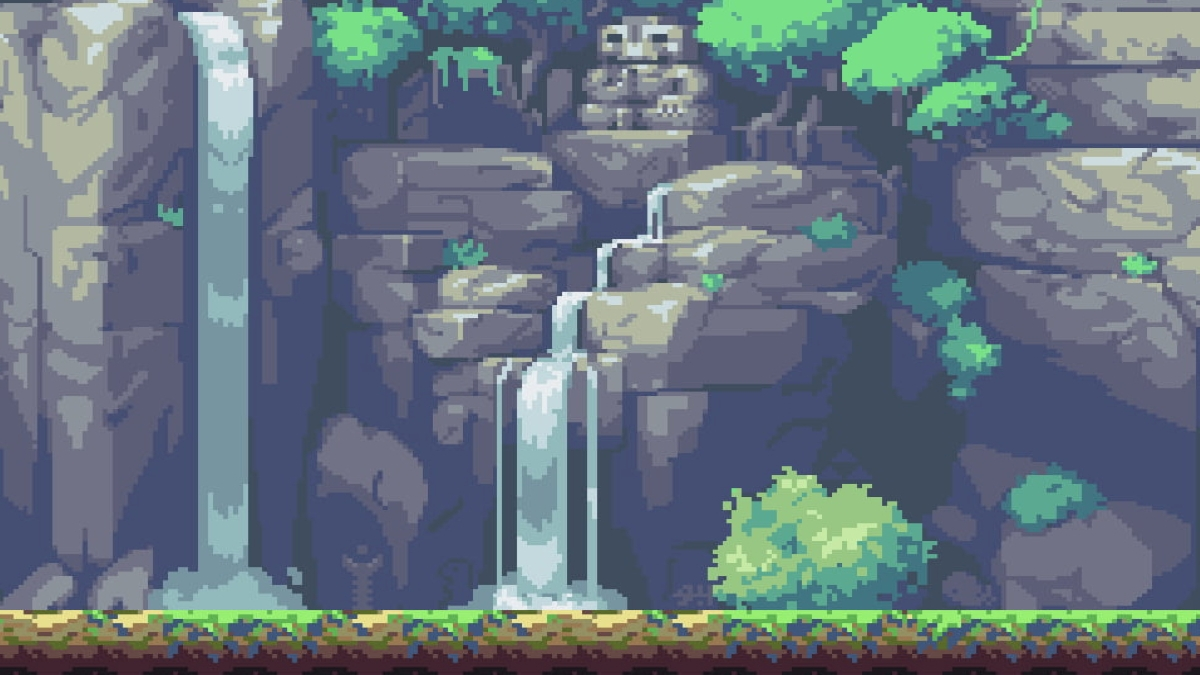
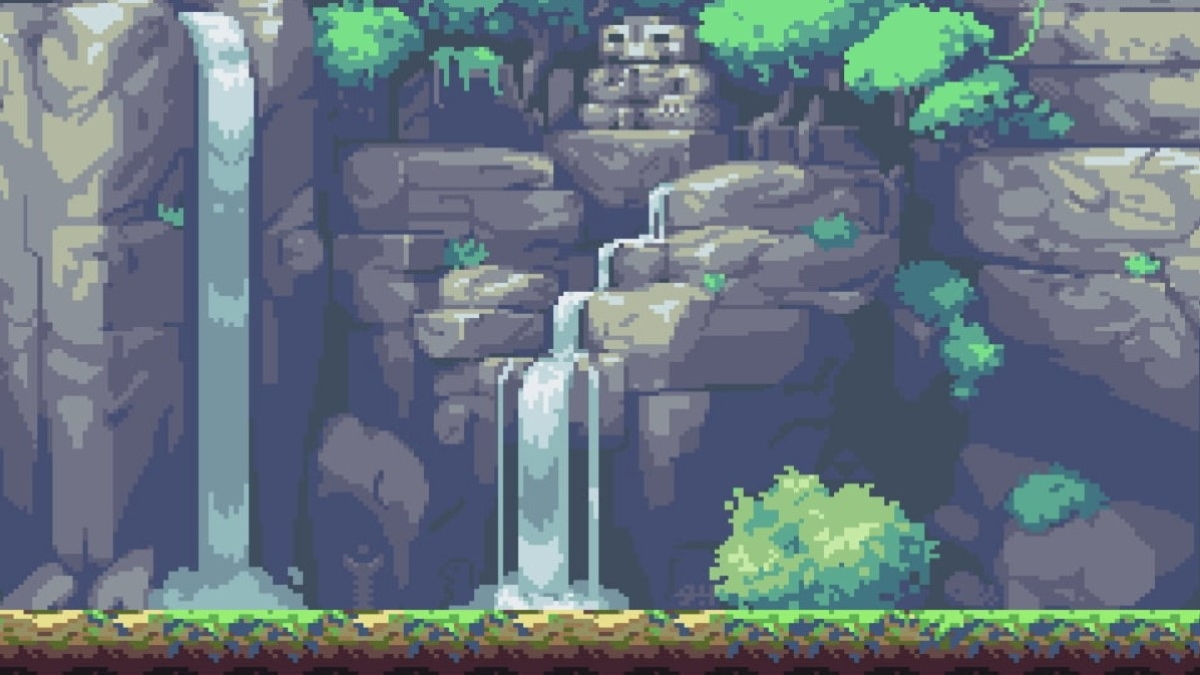
added health bar and type interaction logic

diff --git a/controller.py b/controller.py
@@ -1,7 +1,7 @@
 import pygame, sys, math, random, time
 from model import Model, obstacle1, obstacle2, character, waterObs, fireObs, grassObs, snorObs
-SCREEN_SIZE = SCREEN_WIDTH, SCREEN_HEIGHT = 1300, 675
-FLOOR = 610
+SCREEN_SIZE = SCREEN_WIDTH, SCREEN_HEIGHT = 1300, 600
+FLOOR = 490
 CHARFLOOR = 424
 #helper variables
 bg = 0
@@ -21,18 +21,20 @@ class Controller:
     def startGame(self):
         #game quit
         #can only happen after view has been initalized I guess
-        global bg, tiles
-        bg = pygame.image.load("assets/background6.jpg").convert()
+        global bg, tiles, scroll
+        bg = pygame.image.load("assets/background7.png").convert()
         tiles = math.ceil(SCREEN_WIDTH / (bg.get_width())) + 1
         
-        player = character(500, 528, 86, 100)
+        player = character(500, 410, 86, 100)
         
         while True:
+            
             for event in self.view.getEvents():
                 if event.type == pygame.QUIT:
                     self.view.endGame()
                     sys.exit()
                     
+                
                 #generates new obstacle
                 if event.type == self.trigger:
                     #chooses random obstacle to create
@@ -46,7 +48,18 @@ class Controller:
                     elif(rand == 4):
                         self.obstacles.append(grassObs(1350, FLOOR-251, 94, 300))
 
-            
+            if player.health <= 0:
+                player.jump = True
+                self.movePlayer(player)
+                pData = player.getImgInfo()
+                for i in range(-1, tiles):
+                    w = bg.get_width()
+                    self.view.blitImg(bg, (i * w + scroll % w), 0)
+                self.view.blitImg(pData[0], pData[1], pData[2])
+                self.view.update()
+                self.clock.tick(60)
+                continue
+                
             self.moveObstacles()
             self.updateBackground()
             
@@ -64,16 +77,32 @@ class Controller:
             #print(player.y)
             playerHitbox = pygame.Rect(player.getHitbox())
             #blits all obstacles
+            
             for obs in self.obstacles:
                 obsData = obs.getImgInfo()
                 self.view.blitImg(obsData[0], obsData[1], obsData[2])
                 self.view.drawRect((255,0,0), obs.getHitbox())
                 if pygame.Rect.colliderect(playerHitbox, pygame.Rect(obs.getHitbox())):
-                    pass 
+                    if player.curChar == 0 and (type(obs) is fireObs):
+                        player.health -= 0.5
+                    elif player.curChar == 0 and (type(obs) is waterObs):
+                        player.health -= 1
+                    elif player.curChar == 1 and (type(obs) is waterObs):
+                        player.health -= 0.5
+                    elif player.curChar == 1 and (type(obs) is grassObs):
+                        player.health -= 1
+                    elif player.curChar == 2 and (type(obs) is grassObs):
+                        player.health -= 0.5
+                    elif player.curChar == 2 and (type(obs) is fireObs):
+                        player.health -= 1
+                    elif type(obs) is snorObs:
+                        player.health -= 1
+                    self.obstacles.remove(obs)
                     #print("GAME OVER DWEEB XDDD")
                    # pygame.time.delay(200)
                     
-        
+            self.drawHealth(player)
+            
             #blits player
             pData = player.getImgInfo()
             self.view.blitImg(pData[0], pData[1], pData[2])
@@ -82,7 +111,13 @@ class Controller:
             self.view.update()
             self.clock.tick(60)
     
-    
+    def drawHealth(self, player):
+        packs = player.getHealth()
+        x = 20
+        y = 30
+        for p in packs:
+            self.view.blitImg(p, x, y)
+            x += 100
     
     def cycleChar(self, player):
         currentTime = time.time()
@@ -93,12 +128,14 @@ class Controller:
     #for player controlled movements
     def movePlayer(self, player):
 
-        player.y -= player.velocity
+        if player.y < 610:
+            player.y -= player.velocity
+
         player.velocity -= .2
-            
         if player.velocity < -10:
             player.jump = False
-            player.velocity = 10
+            if player.health > 0:
+                player.velocity = 10
         
     def moveObstacles(self):
         #keeps obstacles moving along with the background and removes once they go off screen

diff --git a/model.py b/model.py
@@ -10,10 +10,11 @@ class Model:
         self.height = height
         self.jump = False
         self.velocity = 10
-        self.curChar = 0
+        self.curChar = 0 #char squir bulb 
+        self.health = 3
 
 class snorObs(Model):
-    snorImg = [pygame.image.load("assets/fatass/sleep1.png"),pygame.image.load("assets/fatass/sleep2.png") ]
+    snorImg = [pygame.image.load("assets/snorlax/sleep1.png"),pygame.image.load("assets/snorlax/sleep2.png") ]
     
     animation_timer = 0
     animation_delay = 20 # Animation delay 
@@ -140,6 +141,7 @@ class character(Model):
     animation_delay = 20 # Animation delay 
     current_time = 0
     
+    healthPacks = [pygame.image.load("assets/health/1.png"), pygame.image.load("assets/health/0.5.png")]
 
     def getImgInfo(self):
         self.current_time += 1
@@ -170,5 +172,16 @@ class character(Model):
     #gets hitbox for character. A little smaller than what you see to allow for some on-the-edge gameplay
     def getHitbox(self):
         return (self.x + 13, self.y + 25, self.width - 30, self.height - 40)
+    
+    def getHealth(self):
+        healthArray = []
+        hlt = self.health
+        while(hlt > .5):
+            healthArray.append(self.healthPacks[0])
+            hlt -= 1
+        if hlt == .5:
+            healthArray.append(self.healthPacks[1])
+        return healthArray
+        
 
 

diff --git a/view.py b/view.py
@@ -1,5 +1,5 @@
 import pygame, sys
-SCREEN_SIZE = SCREEN_WIDTH, SCREEN_HEIGHT = 1200, 675
+SCREEN_SIZE = SCREEN_WIDTH, SCREEN_HEIGHT = 1200, 600
 
 class View:
 

diff --git a/main.py b/main.py
@@ -6,4 +6,4 @@ from view import View
 #makes a view, a controller and starts game
 v = View()
 c = Controller(v)
-c.startGame()
+c.startGame()       
